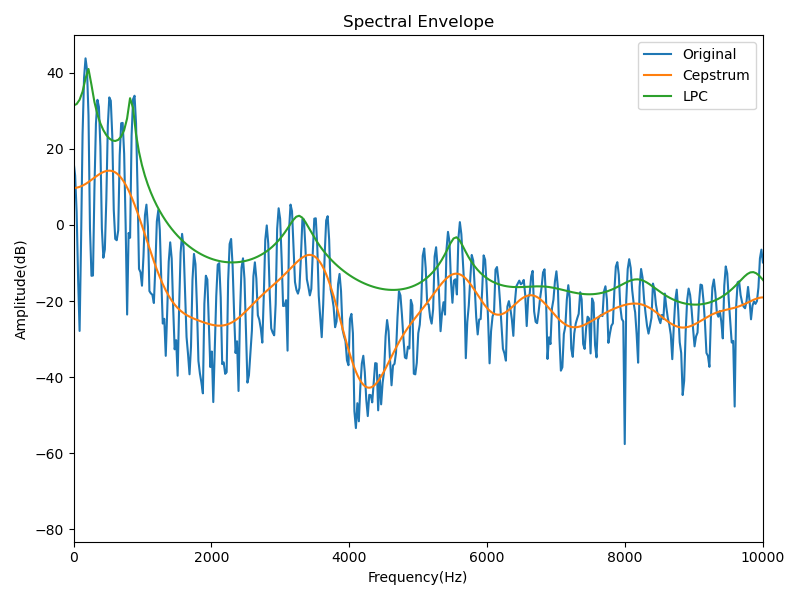
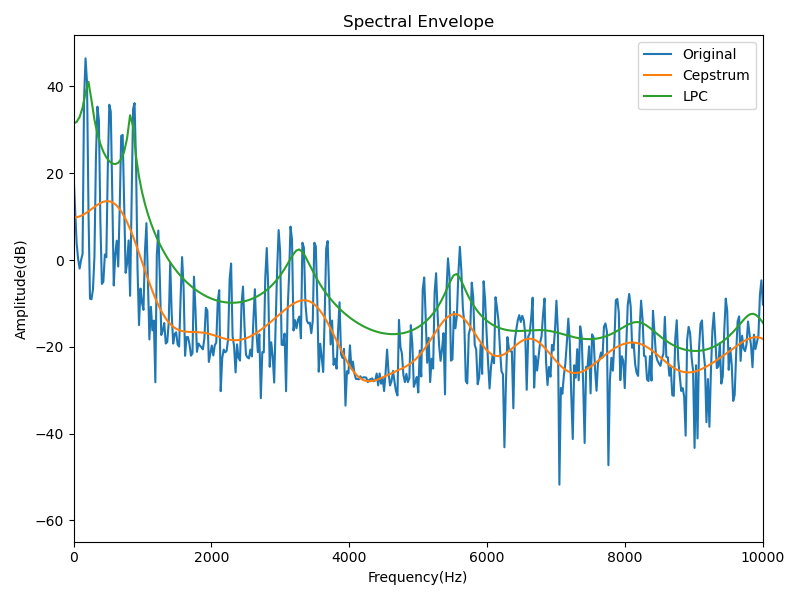
修正

diff --git a/ex4/y_sato/ex4.py b/ex4/y_sato/ex4.py
@@ -125,6 +125,8 @@ def lpc(signal, p, sr, window=1024):
         env(ndarray, (axis=(frequency, ))): spectrum envelope based on LPC
     """
 
+    win_fc = np.hamming(window)
+    signal *= win_fc
     ac = autocorrelation(signal, window)
     r = ac[: p + 1]  # r0 ~ rp
 
@@ -137,9 +139,11 @@ def lpc(signal, p, sr, window=1024):
 
 
 def levinson_durbin(r):
-   """Levinson-Durbin algorithm for LPC
+    """Levinson-Durbin algorithm for LPC
+
     Args:
         r (ndarray): auto correlation
+
     Returns:
         alpha (ndarray): Linear prediction coefficient
         e (float):
@@ -287,7 +291,6 @@ if __name__ == "__main__":
     signal = original_signal[t_sample : t_sample + window]
     win_fc = np.hamming(window)
 
-    signal *= win_fc
 
     tmp = signal * win_fc
     t_original_spec = np.fft.fft(tmp)
